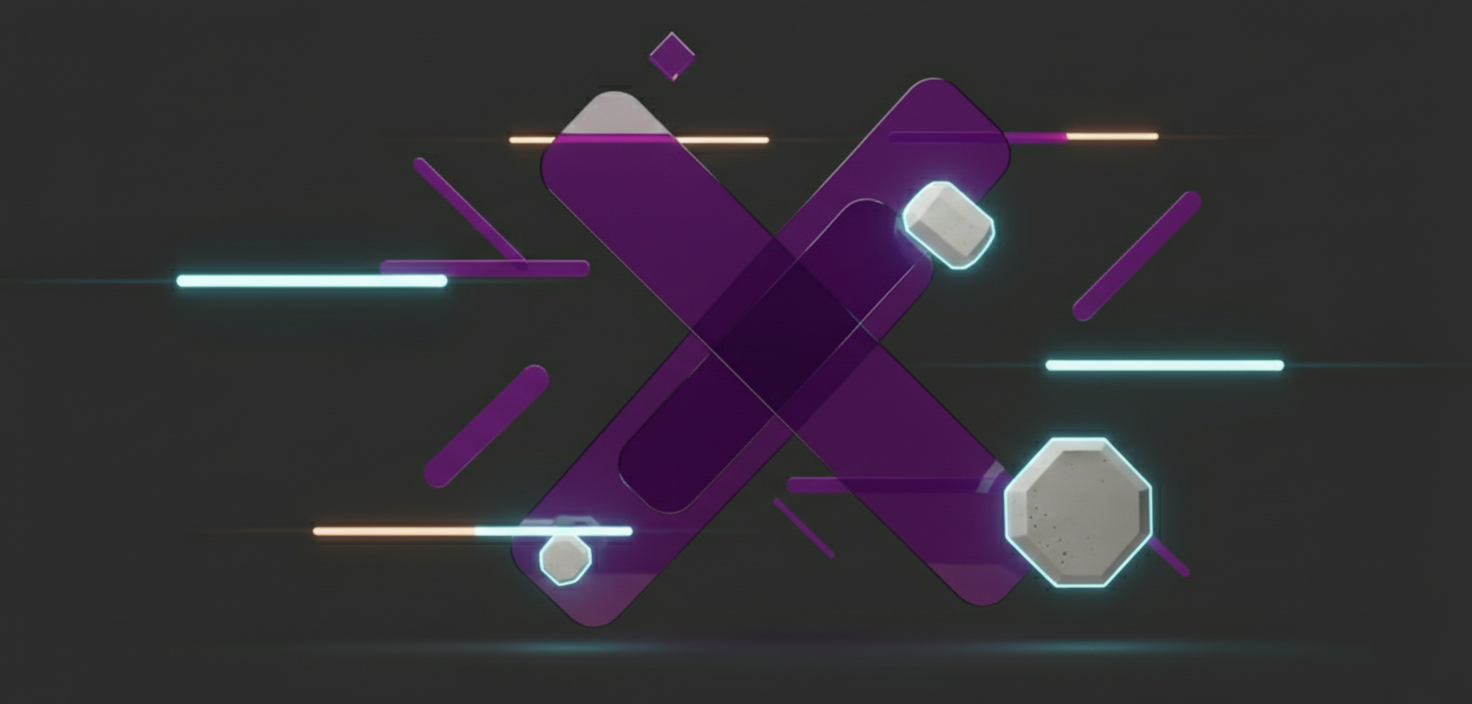
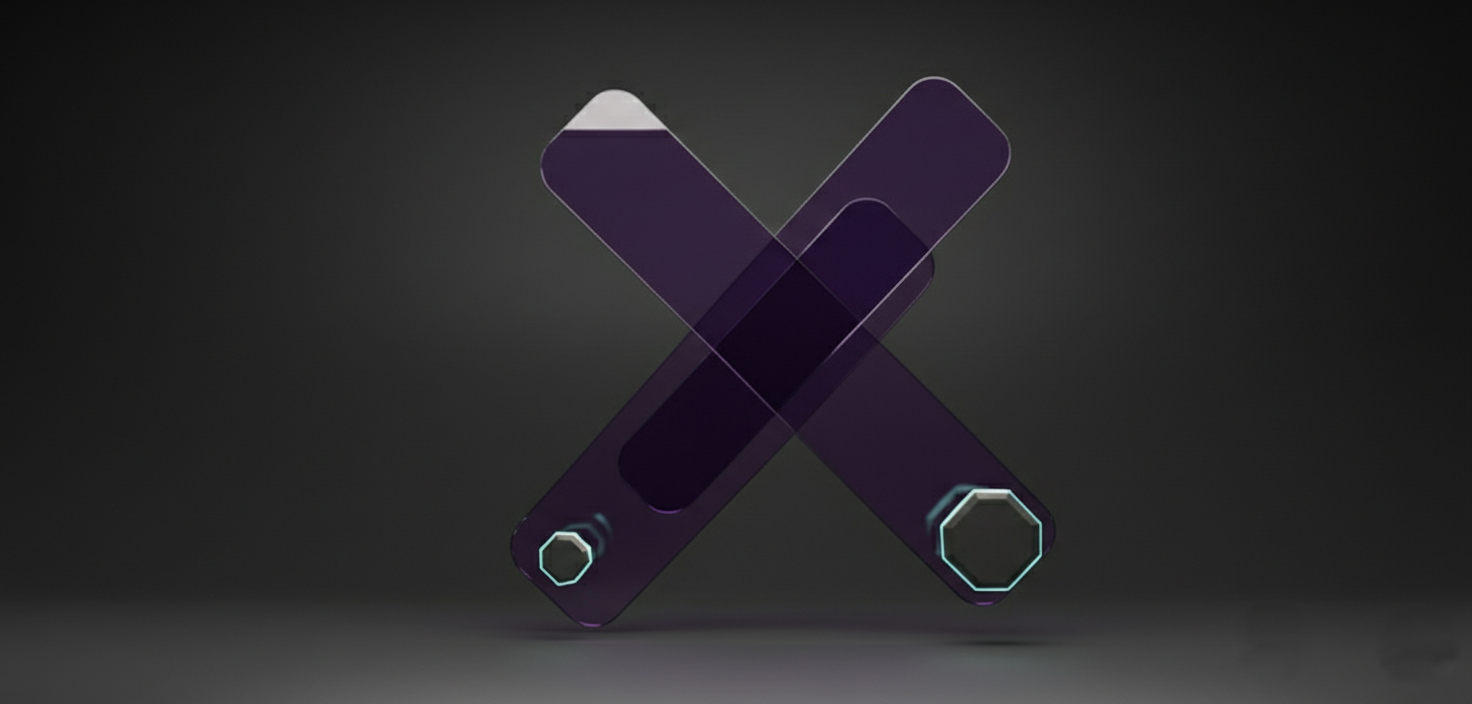
change Hero Bacground image added new bacground image dark and light mode theme and change HeroDesatils section bacground image added new bacground image on dark light theme

diff --git a/src/components/homePage/HeroDetailsSection.jsx b/src/components/homePage/HeroDetailsSection.jsx
@@ -8,44 +8,74 @@ const HeroDetailsSection = () => {
         <section className="section-two h-screen snap-start relative flex items-center justify-center">
           <div className="absolute inset-0 -z-10">
             <Image
-              src="/HeroBackgroundImage.png"
+              src="/HeroDetailsLight.png"
               alt="Background Pillar"
               fill
-              className="object-cover"
+              className="object-cover dark:hidden"
+              priority
+            />
+            <Image
+              src="/HeroDetailsDark.png"
+              alt="Background Pillar"
+              fill
+              className="object-cover hidden dark:block"
               priority
             />
           </div>
           <div className="w-full max-w-11/12 md:max-w-10/12 mx-auto flex justify-between">
             <div className="flex-3">
-              <motion.h1 
-                initial={{y: 90, opacity: 0,rotateX: -15 }}
-                whileInView={{ y: 0, opacity: 1,rotateX: 0 }}
+              <motion.h1
+                initial={{ y: 90, opacity: 0, rotateX: -15 }}
+                whileInView={{ y: 0, opacity: 1, rotateX: 0 }}
                 viewport={{ once: false, amount: 0.3 }}
-                transition={{duration: 1.4,type: "spring",bounce: 0.4,damping: 12,mass: 1}} 
-                className="text-7xl md:text-8xl font-bold text-white dark:text-black tracking-tight leading-tight">
+                transition={{
+                  duration: 1.4,
+                  type: "spring",
+                  bounce: 0.4,
+                  damping: 12,
+                  mass: 1,
+                }}
+                className="text-7xl md:text-8xl font-bold text-[#9f28e3] tracking-tight leading-tight"
+              >
                 CRAFTING TOMORROW'S
                 <br />
-                <span className="bg-linear-to-r from-[#9f28e3] to-[#9f28e3]/40 bg-clip-text text-transparent">
+                <span className="text-black dark:text-white">
                   LEGACY
                 </span>
               </motion.h1>
 
-              <motion.div 
-                initial={{y: 90, opacity: 0,rotateX: -15 }}
-                whileInView={{ y: 0, opacity: 1,rotateX: 0 }}
+              <motion.div
+                initial={{ y: 90, opacity: 0, rotateX: -15 }}
+                whileInView={{ y: 0, opacity: 1, rotateX: 0 }}
                 viewport={{ once: false, amount: 0.3 }}
-                transition={{duration: 1.4,type: "spring",bounce: 0.4,damping: 12,mass: 1, delay: 0.2}}
-                className="my-8 relative">
+                transition={{
+                  duration: 1.4,
+                  type: "spring",
+                  bounce: 0.4,
+                  damping: 12,
+                  mass: 1,
+                  delay: 0.2,
+                }}
+                className="my-8 relative"
+              >
                 <div className="h-1 w-30 bg-linear-to-r from-[#9f28e3] to-[#9f28e3]/40 rounded-full"></div>
                 <div className="h-1 w-20 bg-[#9f28e3] rounded-full mt-2"></div>
               </motion.div>
 
-              <motion.p 
-                initial={{y: 90, opacity: 0,rotateX: -15 }}
-                whileInView={{ y: 0, opacity: 1,rotateX: 0 }}
+              <motion.p
+                initial={{ y: 90, opacity: 0, rotateX: -15 }}
+                whileInView={{ y: 0, opacity: 1, rotateX: 0 }}
                 viewport={{ once: false, amount: 0.3 }}
-                transition={{duration: 1.4,type: "spring",bounce: 0.4,damping: 12,mass: 1, delay: 0.3}}
-                className="text-2xl md:text-2xl text-white/70 leading-relaxed text-justify max-w-4xl">
+                transition={{
+                  duration: 1.4,
+                  type: "spring",
+                  bounce: 0.4,
+                  damping: 12,
+                  mass: 1,
+                  delay: 0.3,
+                }}
+                className="text-2xl md:text-2xl font-semibold text-black/50 dark:text-white/50 leading-relaxed text-justify max-w-4xl"
+              >
                 At NirmanBD, we merge timeless engineering with cutting-edge
                 innovation. Our dedication to quality and sustainable practices
                 ensures every structure we build is a testament to durability,
@@ -53,11 +83,19 @@ const HeroDetailsSection = () => {
               </motion.p>
 
               <motion.div
-                initial={{y: 90, opacity: 0,rotateX: -15 }}
-                whileInView={{ y: 0, opacity: 1,rotateX: 0 }}
+                initial={{ y: 90, opacity: 0, rotateX: -15 }}
+                whileInView={{ y: 0, opacity: 1, rotateX: 0 }}
                 viewport={{ once: false, amount: 0.3 }}
-                transition={{duration: 1.4,type: "spring",bounce: 0.4,damping: 12,mass: 1, delay: 0.4}}
-                className="mt-10 flex items-center gap-4">
+                transition={{
+                  duration: 1.4,
+                  type: "spring",
+                  bounce: 0.4,
+                  damping: 12,
+                  mass: 1,
+                  delay: 0.4,
+                }}
+                className="mt-10 flex items-center gap-4"
+              >
                 <button className="px-8 py-3 bg-linear-to-r from-[#9f28e3]/40 to-[#9f28e3] text-white rounded-lg hover:bg-[#9f28e3] font-bold transition-all duration-300 transform hover:-translate-y-1 shadow-lg hover:shadow-amber-500/25">
                   Explore Projects
                 </button>

diff --git a/src/components/homePage/HeroSection.jsx b/src/components/homePage/HeroSection.jsx
@@ -7,10 +7,17 @@ const HeroSection = () => {
         <section className="h-screen mx-auto snap-start relative flex items-center justify-center">
         <div className="absolute inset-0 -z-10">
           <Image
-            src="/Gemini_Generated_Image_xvx64fxvx64fxvx6.png"
+            src="/HeroLight.png"
             alt="Background Pillar"
             fill
-            className="object-cover"
+            className="object-cover dark:hidden"
+            priority
+          />
+          <Image
+            src="/HeroDark.png"
+            alt="Background Pillar"
+            fill
+            className="object-cover hidden dark:block"
             priority
           />
         </div>
@@ -29,7 +36,7 @@ const HeroSection = () => {
               whileInView={{ x: 0, y: 0, opacity: 1,rotateX: 0 }}
               viewport={{ once: false, amount: 0.3 }}
               transition={{duration: 2,type: "spring",bounce: 0.4,damping: 12,mass: 1,}}
-              className="border-t-8 border-amber-500 lg:text-[23px] xl:text-[30.5px] 2xl:text-[38px] font-bold text-white/75 md:-mt-6 md:ml-2 lg:-mt-8 lg:ml-2 xl:-mt-13 xl:ml-4 2xl:-mt-16 2xl:ml-5">
+              className="lg:text-[23px] xl:text-[30.5px] 2xl:text-[38px] font-bold text-black/50 dark:text-white/50 md:-mt-6 md:ml-2 lg:-mt-8 lg:ml-2 xl:-mt-13 xl:ml-4 2xl:-mt-16 2xl:ml-5">
               OTOL VORSA SOTHIK NIRMAN
             </motion.p>
           </div>
@@ -47,7 +54,7 @@ const HeroSection = () => {
               whileInView={{ x: 0, y: 0, opacity: 1,rotateX: 0 }}
               viewport={{ once: false, amount: 0.3 }}
               transition={{duration: 2,type: "spring",bounce: 0.4,damping: 12,mass: 1,}}
-              className="border-t-8 border-amber-500 text-right lg:text-[23px] xl:text-[30.5px] 2xl:text-[38px] font-bold text-white/75 md:-mt-6 lg:-mt-8 lg:mr-1 xl:-mt-13 xl:mr-1.5 2xl:-mt-16 2xl:mr-2">
+              className="text-right lg:text-[23px] xl:text-[30.5px] 2xl:text-[38px] font-bold text-black/50 dark:text-white/50 md:-mt-6 lg:-mt-8 lg:mr-1 xl:-mt-13 xl:mr-1.5 2xl:-mt-16 2xl:mr-2">
               DERO VITTI UNNOTO KATHAMO
             </motion.p>
           </div>
